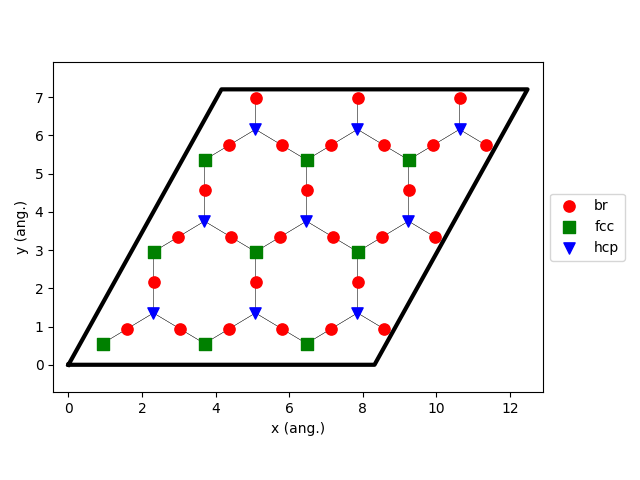
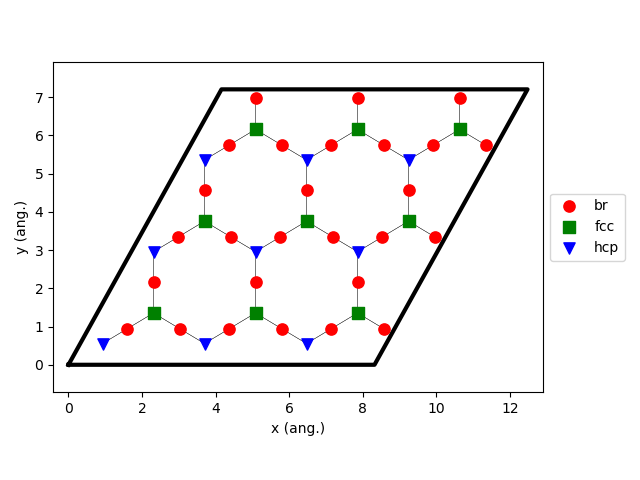
Tutorial CO+Pt111 updated -- SO203

diff --git a/examples/CO+Pt111/CO+Pt111.py b/examples/CO+Pt111/CO+Pt111.py
@@ -20,12 +20,12 @@ sett_ads.input.ams.PESExploration.SaddleSearch.MaxEnergy = 2.0
 sett_ads.input.ams.PESExploration.DynamicSeedStates = 'T'
 sett_ads.input.ams.PESExploration.CalculateFragments = 'T'
 sett_ads.input.ams.PESExploration.StatesAlignment.ReferenceRegion = 'surface'
-sett_ads.input.ams.PESExploration.StructureComparison.DistanceDifference = 0.1
+sett_ads.input.ams.PESExploration.StructureComparison.DistanceDifference = 0.2
 sett_ads.input.ams.PESExploration.StructureComparison.NeighborCutoff = 2.5
 sett_ads.input.ams.PESExploration.StructureComparison.EnergyDifference = 0.05
 sett_ads.input.ams.PESExploration.StructureComparison.CheckSymmetry = 'T'
 sett_ads.input.ams.PESExploration.BindingSites.Calculate = 'T'
-sett_ads.input.ams.PESExploration.BindingSites.NeighborCutoff = 3.8
+sett_ads.input.ams.PESExploration.BindingSites.DistanceDifference = 0.1
 
 job = scm.plams.AMSJob(name='pes_exploration', molecule=mol, settings=sett_ads+engine_sett)
 results_ads = job.run()
@@ -34,10 +34,9 @@ energy_landscape = results_ads.get_energy_landscape()
 print(energy_landscape)
 
 sett_bs = sett_ads.copy()
+sett_ads.input.ams.PESExploration.Job = 'BindingSites'
 sett_bs.input.ams.PESExploration.LoadEnergyLandscape.Path= '../pes_exploration'
-sett_bs.input.ams.PESExploration.NumExpeditions = 1
-sett_ads.input.ams.PESExploration.NumExplorers = 1
-sett_bs.input.ams.PESExploration.GenerateSymmetryImages = 'T'
+sett_bs.input.ams.PESExploration.LoadEnergyLandscape.GenerateSymmetryImages = 'T'
 sett_bs.input.ams.PESExploration.CalculateFragments = 'F'
 sett_bs.input.ams.PESExploration.StructureComparison.CheckSymmetry = 'F'
 
@@ -45,9 +44,9 @@ job = scm.plams.AMSJob(name='binding_sites', molecule=mol, settings=sett_bs+engi
 results_bs = job.run()
 
 loader_ads = scm.pyzacros.RKFLoader( results_ads )
-loader_ads.replace_site_types( ['A','B','C'], ['fcc','br','hcp'] )
+loader_ads.replace_site_types( ['N33','N221','N331'], ['fcc','br','hcp'] )
 loader_bs = scm.pyzacros.RKFLoader( results_bs )
-loader_bs.replace_site_types( ['A','B','C'], ['fcc','br','hcp'] )
+loader_bs.replace_site_types( ['N33','N221','N331'], ['fcc','br','hcp'] )
 
 print(loader_ads.clusterExpansion)
 print(loader_ads.mechanism)
@@ -74,7 +73,7 @@ job = scm.pyzacros.ZacrosJob( name='zacros_job', lattice=loader_bs.lattice,
                                 settings=settings )
 results_pz = job.run()
 
-if( job.ok() ):
+if job.ok():
     results_pz.plot_lattice_states( results_pz.lattice_states() )
     results_pz.plot_molecule_numbers( ["CO*"] )
 

diff --git a/core/Lattice.py b/core/Lattice.py
@@ -630,7 +630,7 @@ class Lattice:
         markers = ['o', 's', 'v', '^', '+', '^']
         colors =  ['r', 'g', 'b', 'm', 'c', 'k']
 
-        for i,st_i in enumerate(list(set(self.site_types))):
+        for i,st_i in enumerate(sorted(list(set(self.site_types)))):
             xvalues = [ x for (x,y),st in zip(self.site_coordinates,self.site_types) if st==st_i ]
             yvalues = [ y for (x,y),st in zip(self.site_coordinates,self.site_types) if st==st_i ]
 

diff --git a/core/LatticeState.py b/core/LatticeState.py
@@ -361,7 +361,7 @@ class LatticeState:
         #--------------------------------
         # Plots the species
         #--------------------------------
-        site_types = list(set(self.lattice.site_types))
+        site_types = sorted(list(set(self.lattice.site_types)))
         for i,sym_i in enumerate([item.symbol for item in items]):
 
             if( all([sym is None for sym in symbols]) ): continue

diff --git a/doc/source/examples/COPt111.rst b/doc/source/examples/COPt111.rst
@@ -79,18 +79,18 @@ This section aims to get the energy landscape of the system, but by being carefu
   sett_ads.input.ams.Task = "PESExploration"
   sett_ads.input.ams.PESExploration.Job = 'ProcessSearch'
   sett_ads.input.ams.PESExploration.RandomSeed = 100
-  sett_ads.input.ams.PESExploration.NumExpeditions = 10
+  sett_ads.input.ams.PESExploration.NumExpeditions = 30
   sett_ads.input.ams.PESExploration.NumExplorers = 4
   sett_ads.input.ams.PESExploration.SaddleSearch.MaxEnergy = 2.0
-  sett_ads.input.ams.PESExploration.DynamicSeedStates = True
-  sett_ads.input.ams.PESExploration.CalculateFragments = True
+  sett_ads.input.ams.PESExploration.DynamicSeedStates = 'T'
+  sett_ads.input.ams.PESExploration.CalculateFragments = 'T'
   sett_ads.input.ams.PESExploration.StatesAlignment.ReferenceRegion = 'surface'
-  sett_ads.input.ams.PESExploration.StructureComparison.DistanceDifference = 0.1
-  sett_ads.input.ams.PESExploration.StructureComparison.NeighborCutoff = 2.5
+  sett_ads.input.ams.PESExploration.StructureComparison.DistanceDifference = 0.2
+  sett_ads.input.ams.PESExploration.StructureComparison.NeighborCutoff = 2.4
   sett_ads.input.ams.PESExploration.StructureComparison.EnergyDifference = 0.05
-  sett_ads.input.ams.PESExploration.StructureComparison.CheckSymmetry = True
-  sett_ads.input.ams.PESExploration.BindingSites.Calculate = True
-  sett_ads.input.ams.PESExploration.BindingSites.NeighborCutoff = 3.8
+  sett_ads.input.ams.PESExploration.StructureComparison.CheckSymmetry = 'T'
+  sett_ads.input.ams.PESExploration.BindingSites.Calculate = 'T'
+  sett_ads.input.ams.PESExploration.BindingSites.DistanceDifference = 0.1
 
   job = scm.plams.AMSJob(name='pes_exploration', molecule=mol, settings=sett_ads+engine_sett)
   results_ads = job.run()
@@ -114,33 +114,33 @@ Finally, we create the AMSJob calculation, which requires both the initial molec
 .. code-block:: none
   :linenos:
 
-  [05.02|08:15:06] PLAMS working folder: /home/user/pyzacros/examples/CO+Pt111/plams_workdir
-  [05.02|08:15:06] JOB pes_exploration STARTED
-  [05.02|08:15:06] JOB pes_exploration RUNNING
-  [05.02|08:15:51] JOB pes_exploration FINISHED
-  [05.02|08:15:51] JOB pes_exploration SUCCESSFUL
+  PLAMS working folder: /home/user/pyzacros/examples/CO+Pt111/plams_workdir
+  [06.02|11:22:44] JOB pes_exploration STARTED
+  [06.02|11:22:44] JOB pes_exploration RUNNING
+  [06.02|11:23:38] JOB pes_exploration FINISHED
+  [06.02|11:23:38] JOB pes_exploration SUCCESSFUL
   All stationary points:
   ======================
-  State 1: COPt36 local minimum @ -7.65164210 Hartree (found 1 times, results on State-1_MIN)
+  State 1: COPt36 local minimum @ -7.65164231 Hartree (found 1 times, results on State-1_MIN)
   State 2: COPt36 local minimum @ -7.65157184 Hartree (found 1 times, results on State-2_MIN)
-  State 3: COPt36 local minimum @ -7.62381952 Hartree (found 1 times, results on State-3_MIN)
-  State 4: COPt36 transition state @ -7.62254756 Hartree (found 5 times, results on State-4_TS_2-3)
+  State 3: COPt36 local minimum @ -7.62382298 Hartree (found 1 times, results on State-3_MIN)
+  State 4: COPt36 transition state @ -7.62254754 Hartree (found 6 times, results on State-4_TS_2-3)
     +- Reactants: State 2: COPt36 local minimum @ -7.65157184 Hartree (found 1 times, results on State-2_MIN)
-       Products:  State 3: COPt36 local minimum @ -7.62381952 Hartree (found 1 times, results on State-3_MIN)
-       Prefactors: 1.586E+13:2.362E+12
-  State 5: COPt36 transition state @ -7.62242984 Hartree (found 3 times, results on State-5_TS_3-1)
-    +- Reactants: State 3: COPt36 local minimum @ -7.62381952 Hartree (found 1 times, results on State-3_MIN)
-       Products:  State 1: COPt36 local minimum @ -7.65164210 Hartree (found 1 times, results on State-1_MIN)
-       Prefactors: 2.205E+12:1.504E+13
+       Products:  State 3: COPt36 local minimum @ -7.62382298 Hartree (found 1 times, results on State-3_MIN)
+       Prefactors: 1.549E+13:2.197E+12
+  State 5: COPt36 transition state @ -7.62243092 Hartree (found 6 times, results on State-5_TS_1-3)
+    +- Reactants: State 1: COPt36 local minimum @ -7.65164231 Hartree (found 1 times, results on State-1_MIN)
+       Products:  State 3: COPt36 local minimum @ -7.62382298 Hartree (found 1 times, results on State-3_MIN)
+       Prefactors: 1.575E+13:2.200E+12
   Fragment 1: CO local minimum @ -0.42445368 Hartree (results on Fragment-1)
-  Fragment 2: Pt36 local minimum @ -7.154286 Hartree (results on Fragment-2)
+  Fragment 2: Pt36 local minimum @ -7.15428639 Hartree (results on Fragment-2)
   FragmentedState 1: CO+Pt36 local minimum @ -7.57874007 Hartree (fragments [1, 2])
-    +- State 1: COPt36 local minimum @ -7.65164210 Hartree (found 1 times, results on State-1_MIN)
-    |  Prefactors: 8.051E+06:1.668E+16
+    +- State 1: COPt36 local minimum @ -7.65164231 Hartree (found 1 times, results on State-1_MIN)
+    |  Prefactors: 8.051E+06:1.667E+16
     +- State 2: COPt36 local minimum @ -7.65157184 Hartree (found 1 times, results on State-2_MIN)
     |  Prefactors: 8.051E+06:1.642E+16
-    +- State 3: COPt36 local minimum @ -7.62381952 Hartree (found 1 times, results on State-3_MIN)
-       Prefactors: 8.051E+06:2.446E+15
+    +- State 3: COPt36 local minimum @ -7.62382298 Hartree (found 1 times, results on State-3_MIN)
+       Prefactors: 8.051E+06:2.329E+15
 
 From this output information, we can see that the calculation took less than a minute (lines 1-5) and that the obtained energy landscape contains three local minima (lines 8-10), two transition states (lines 11-18), and one fragmented state (lines 21-27). Notice there is more information available there, like absolute energies, the connections between local minima and transition states, and preexponential factors. To get a more amicable and interactive visualization of the energy landscape, you can use our amsmovie tool by executing the following command:
 
@@ -179,12 +179,11 @@ In the previous section, we obtained both the energy landscape and the associate
   :lineno-start: 36
 
   sett_bs = sett_ads.copy()
+  sett_ads.input.ams.PESExploration.Job = 'BindingSites'
   sett_bs.input.ams.PESExploration.LoadEnergyLandscape.Path= '../pes_exploration'
-  sett_bs.input.ams.PESExploration.NumExpeditions = 1
-  sett_ads.input.ams.PESExploration.NumExplorers = 1
-  sett_bs.input.ams.PESExploration.GenerateSymmetryImages = True
-  sett_bs.input.ams.PESExploration.CalculateFragments = False
-  sett_bs.input.ams.PESExploration.StructureComparison.CheckSymmetry = False
+  sett_bs.input.ams.PESExploration.LoadEnergyLandscape.GenerateSymmetryImages = 'T'
+  sett_bs.input.ams.PESExploration.CalculateFragments = 'F'
+  sett_bs.input.ams.PESExploration.StructureComparison.CheckSymmetry = 'F'
 
   job = scm.plams.AMSJob(name='binding_sites', molecule=mol, settings=sett_bs+engine_sett)
   results_bs = job.run()
@@ -195,10 +194,10 @@ Here, we start from the settings object of the previous calculation (line 36) an
 .. code-block:: none
   :linenos:
 
-  [05.02|08:15:51] JOB binding_sites STARTED
-  [05.02|08:15:51] JOB binding_sites RUNNING
-  [05.02|08:16:16] JOB binding_sites FINISHED
-  [05.02|08:16:16] JOB binding_sites SUCCESSFUL
+  [06.02|11:23:38] JOB binding_sites STARTED
+  [06.02|11:23:38] JOB binding_sites RUNNING
+  [06.02|11:23:57] JOB binding_sites FINISHED
+  [06.02|11:23:57] JOB binding_sites SUCCESSFUL
 
 Notice that the calculation took less than a minute (lines 1-4). To visualize the binding sites you can use again amsinput:
 
@@ -229,12 +228,12 @@ The following section of the script shows how to use the RKFLoader object and ac
 
 .. code-block:: python
   :linenos:
-  :lineno-start: 47
+  :lineno-start: 46
 
   loader_ads = scm.pyzacros.RKFLoader( results_ads )
-  loader_ads.replace_site_types( ['A','B','C'], ['fcc','br','hcp'] )
+  loader_ads.replace_site_types( ['N33','N221','N331'], ['fcc','br','hcp'] )
   loader_bs = scm.pyzacros.RKFLoader( results_bs )
-  loader_bs.replace_site_types( ['A','B','C'], ['fcc','br','hcp'] )
+  loader_bs.replace_site_types( ['N33','N221','N331'], ['fcc','br','hcp'] )
 
   print(loader_ads.clusterExpansion)
   print(loader_ads.mechanism)
@@ -247,26 +246,26 @@ Additionally, line 51 should print out the cluster expansion in the zacros forma
 
   energetics
 
-  cluster CO*-fcc
+  cluster CO*fcc
     sites 1
     lattice_state
       1 CO* 1
     site_types fcc
     graph_multiplicity 1
-    cluster_eng -1.98185e+00
+    cluster_eng -2.08204e+02
   end_cluster
 
   ...
   end_energetics
 
 
-... line 53 the mechanism:
+... line 52 the mechanism:
 
 .. code-block:: none
 
   mechanism
 
-  reversible_step CO*_0-fcc,*_1-br<-->*_0-fcc,CO*_1-br;(0,1)
+  reversible_step CO*1hcp*2br<->*1hcpCO*2br;(0,1)
     sites 2
     neighboring 1-2
     initial
@@ -275,16 +274,16 @@ Additionally, line 51 should print out the cluster expansion in the zacros forma
     final
       1 * 1
       2 CO* 1
-    site_types fcc br
-    pre_expon  1.58623e+13
-    pe_ratio  6.71496e+00
-    activ_eng  7.89791e-01
+    site_types hcp br
+    pre_expon  1.54880e+13
+    pe_ratio  7.05110e+00
+    activ_eng  7.89792e-01
   end_reversible_step
 
   ...
   end_mechanism
 
-... line 54 the lattice:
+... line 53 the lattice:
 
 .. code-block:: none
 
@@ -296,22 +295,22 @@ Additionally, line 51 should print out the cluster expansion in the zacros forma
     n_site_types 3
     site_type_names br fcc hcp
     n_cell_sites 45
-    site_types fcc hcp fcc fcc hcp fcc hcp fcc hcp hcp fcc fcc hcp fcc ...
+    site_types hcp fcc hcp hcp fcc hcp fcc hcp fcc hcp fcc hcp fcc hcp ...
     site_coordinates
-      0.07278722    0.07705806
-      0.18374454    0.18811093
-      0.07278722    0.41039139
-      0.40612054    0.07705806
+      0.07278720    0.07705805
+      0.18391338    0.18801095
+      0.07278720    0.41039138
+      0.40612054    0.07705805
   ...
-      41-16  self
-      27-7  self
-      37-15  self
+      9-26  self
+      7-24  self
+      11-30  self
     end_neighboring_structure
   end_lattice
 
 Please consult Zacros' user guide (``$AMSHOME/scripting/scm/pyzacros/doc/ZacrosManual.pdf``) for more details about the specific meaning of the keywords shown in the previous output blocks.
 
-Finally, line 55 allows visualizing the lattice:
+Finally, line 54 allows visualizing the lattice:
 
 .. figure:: ../../images/example_CO+Pt111-lattice_base.png
    :scale: 60 %
@@ -323,7 +322,7 @@ Finally, using a larger lattice in the final KMC simulation is convenient for im
 
 .. code-block:: python
   :linenos:
-  :lineno-start: 57
+  :lineno-start: 56
 
   loader_bs.lattice.set_repeat_cell( (10,10) )
   loader_bs.lattice.plot()
@@ -341,7 +340,7 @@ At this point, we finally have all the ingredients we need for our final KMC sim
 
 .. code-block:: python
   :linenos:
-  :lineno-start: 60
+  :lineno-start: 59
 
   settings = scm.pyzacros.Settings()
   settings.random_seed = 10
@@ -361,27 +360,27 @@ At this point, we finally have all the ingredients we need for our final KMC sim
   results_pz = job.run()
 
 
-Here we use standard conditions of temperature (273.15 K; line 62) and pressure (1 atm; line 63) and a molar fraction of ``0.1`` for the CO in the gas phase. In addition to that, we run the simulation for 10 µs of KMC time (line 67), print snapshots of the lattice state at 0.01, 0.035, 0.123, 0.429, 1.5, and 5.25 µs (line 68 using the ``logtime`` option), and save information about the number of gas and surface species every 0.01 µs (line 69). Notice that by default pyZacros/Zacros will start the simulation with an empty lattice.
+Here we use standard conditions of temperature (273.15 K; line 61) and pressure (1 atm; line 62) and a molar fraction of ``0.1`` for the CO in the gas phase. In addition to that, we run the simulation for 10 µs of KMC time (line 66), print snapshots of the lattice state at 0.01, 0.035, 0.123, 0.429, 1.5, and 5.25 µs (line 67 using the ``logtime`` option), and save information about the number of gas and surface species every 0.01 µs (line 68). Notice that by default pyZacros/Zacros will start the simulation with an empty lattice.
 
-Finally, we set up the ZacrosJob calculation and run it! (lines 71-75). Notice that the cluster expansion and the mechanism were taken from the symmetry-irreducible energy landscape (see ``loader_ads``) and the lattice from the calculation of the symmetry-generated images (see ``loader_bs``).
+Finally, we set up the ZacrosJob calculation and run it! (lines 70-74). Notice that the cluster expansion and the mechanism were taken from the symmetry-irreducible energy landscape (see ``loader_ads``) and the lattice from the calculation of the symmetry-generated images (see ``loader_bs``).
 
 If everything went well, at this point, you should get something like this in the standard output:
 
 .. code-block:: none
   :linenos:
 
-  [05.02|08:15:51] JOB zacros_job STARTED
-  [05.02|08:15:51] JOB zacros_job RUNNING
-  [05.02|08:16:16] JOB zacros_job FINISHED
-  [05.02|08:16:16] JOB zacros_job SUCCESSFUL
+  [06.02|16:08:46] JOB zacros_job STARTED
+  [06.02|16:08:46] JOB zacros_job RUNNING
+  [06.02|16:08:47] JOB zacros_job FINISHED
+  [06.02|16:08:47] JOB zacros_job SUCCESSFUL
 
 Notice that the calculation took less than a minute. Now we can visualize the results, and close the PLAMS environment:
 
 .. code-block:: python
   :linenos:
-  :lineno-start: 77
+  :lineno-start: 76
 
-  if( job.ok() ):
+  if job.ok():
       results_pz.plot_lattice_states( results_pz.lattice_states() )
       results_pz.plot_molecule_numbers( ["CO*"] )
 
@@ -389,18 +388,18 @@ Notice that the calculation took less than a minute. Now we can visualize the re
 
 The obtained results are the following:
 
-Firstly, the lattice states (line 78):
+Firstly, the lattice states (line 77):
 
-.. figure:: ../../images/example_CO+Pt111-ls.png
-   :scale: 60 %
+.. figure:: ../../images/example_CO+Pt111-ls.gif
+   :scale: 100 %
    :align: center
 
-Secondly, the number of CO molecules absorbed as a function of time (line 79):
+Secondly, the number of CO molecules absorbed as a function of time (line 78):
 
 .. figure:: ../../images/example_CO+Pt111-mn.png
-   :scale: 60 %
+   :scale: 100 %
    :align: center
 
 These results show that the Pt surface gets completely poisoned by CO in around 5 µs. Keep in mind that the lattice has in 4500 sites.
 
-As we said initially, we are not interested in an accurate description of the system itself. So, even if this model is far from reality, it helps us illustrate all steps to follow in a fully automated workflow to go from atomistic to mesoscopic modeling.
+As we said initially, we are not interested in accurately describing the system. So, even if this model is far from reality, it helps us illustrate all steps to follow in a fully automated workflow from atomistic to mesoscopic modeling.
